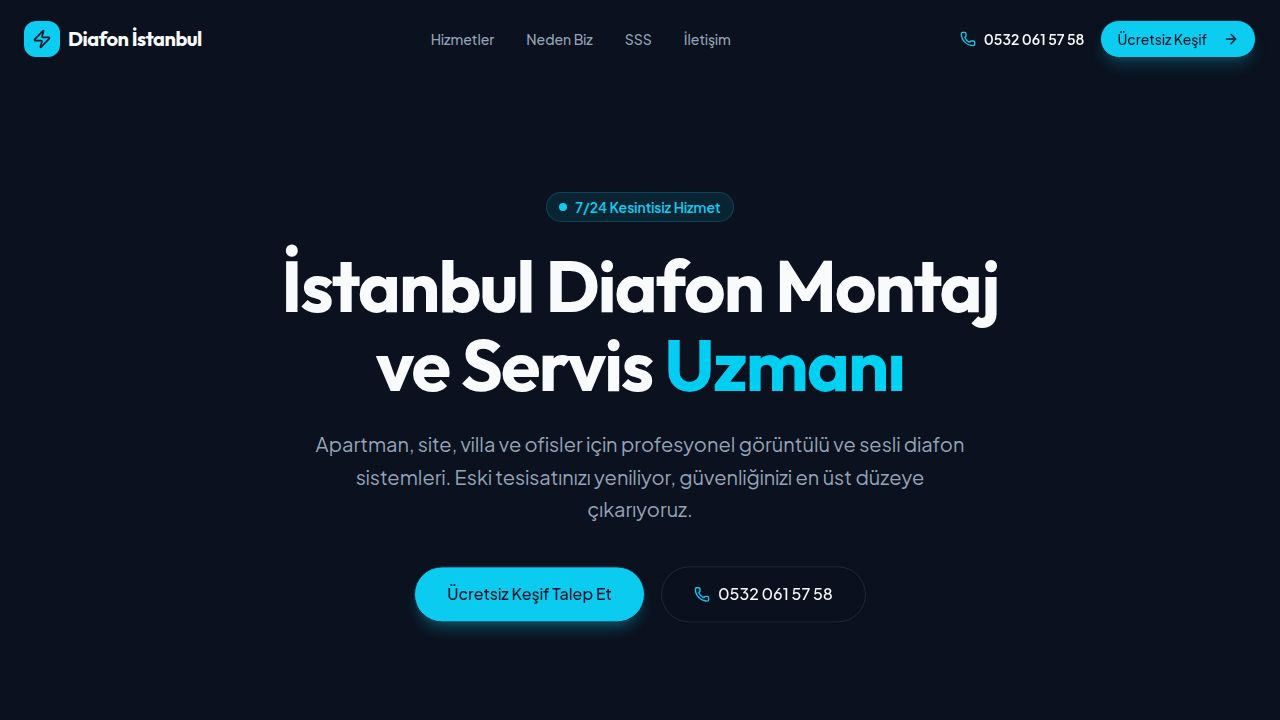
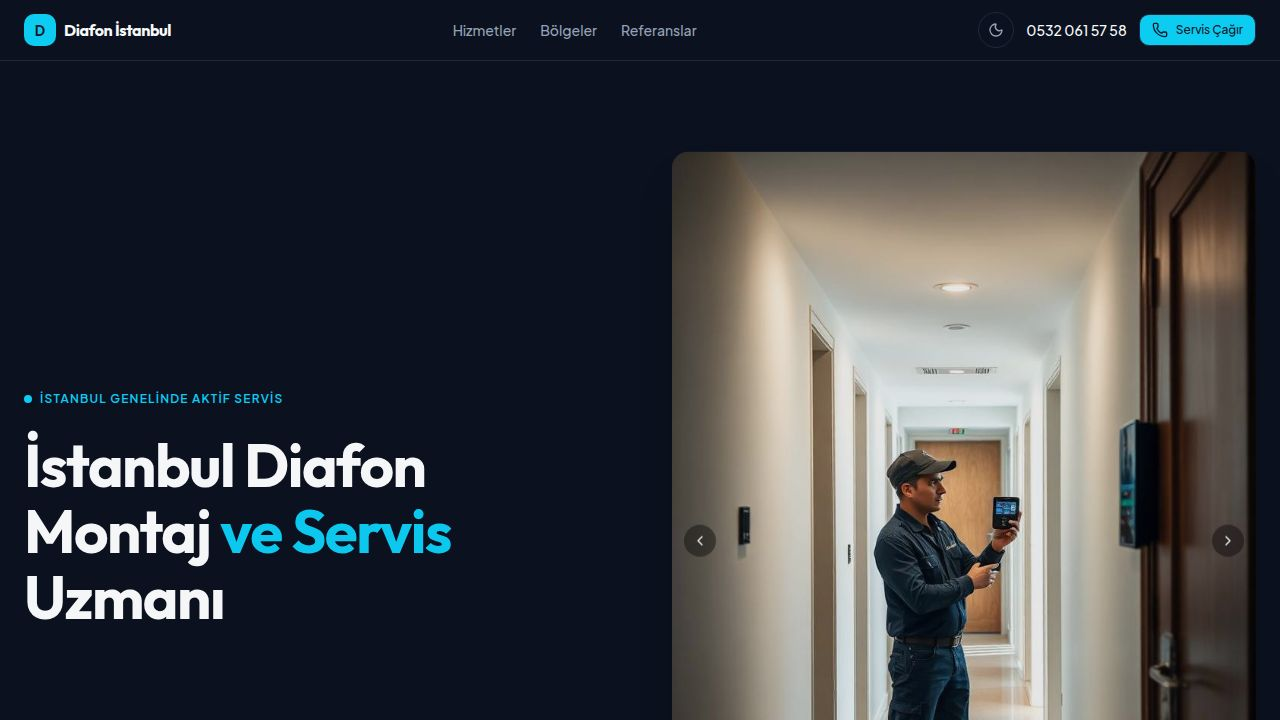
Add image gallery and improve theme switching functionality
Migrate theme management to a dedicated context, replace hero image with a multi-image gallery carousel, and ensure proper theme persistence.

Replit-Commit-Author: Agent
Replit-Commit-Session-Id: 94894068-a09a-41aa-bad5-e27586a75b20
Replit-Commit-Checkpoint-Type: full_checkpoint
Replit-Commit-Event-Id: 4daaf947-07e6-4916-b395-e986740b7a04
Replit-Commit-Screenshot-Url: https://storage.googleapis.com/screenshot-production-us-central1/062960d5-04ed-4636-ac0a-0fe26e2a8ada/94894068-a09a-41aa-bad5-e27586a75b20/Kul28Yd
Replit-Helium-Checkpoint-Created: true

diff --git a/artifacts/diafon-istanbul/src/pages/Home.tsx b/artifacts/diafon-istanbul/src/pages/Home.tsx
@@ -1,5 +1,5 @@
 import { useState, useEffect, useRef } from "react";
-import { motion, useInView } from "framer-motion";
+import { motion, useInView, AnimatePresence } from "framer-motion";
 import {
   Phone,
   ShieldCheck,
@@ -7,13 +7,13 @@ import {
   MapPin,
   CheckCircle2,
   ChevronRight,
+  ChevronLeft,
   Menu,
   X,
   Settings,
   Wrench,
   Video,
   Home as HomeIcon,
-  Zap,
   Sun,
   Moon,
   Users,
@@ -54,8 +54,7 @@ import { useForm } from "react-hook-form";
 import { zodResolver } from "@hookform/resolvers/zod";
 import * as z from "zod";
 import { cn } from "@/lib/utils";
-import { useTheme } from "@/App";
-import technicianImg from "@assets/image_1780422285396.png";
+import { useTheme } from "@/lib/theme-context";
 
 const formSchema = z.object({
   fullName: z
@@ -131,6 +130,136 @@ const FadeIn = ({
     >
       {children}
     </motion.div>
+  );
+};
+
+const HERO_IMAGES = [
+  {
+    src: "/technician.jpg",
+    alt: "Diafon İstanbul teknisyeni apartman koridorunda görüntülü diafon sistemi kuruyor",
+    label: "Montaj Hizmeti",
+  },
+  {
+    src: "/technician.jpg",
+    alt: "Görüntülü diafon panel kurulumu",
+    label: "Panel Kurulumu",
+  },
+  {
+    src: "/technician.jpg",
+    alt: "Kablo tesisat çalışması",
+    label: "Tesisat",
+  },
+];
+
+const HeroGallery = () => {
+  const [active, setActive] = useState(0);
+  const count = HERO_IMAGES.length;
+
+  const prev = () => setActive((p) => (p - 1 + count) % count);
+  const next = () => setActive((p) => (p + 1) % count);
+
+  return (
+    <FadeIn delay={0.2} className="hidden md:block">
+      <div className="relative rounded-2xl overflow-hidden shadow-2xl bg-muted" style={{ aspectRatio: "3/4" }}>
+        {/* Main image */}
+        <AnimatePresence mode="wait">
+          <motion.img
+            key={active}
+            src={HERO_IMAGES[active].src}
+            alt={HERO_IMAGES[active].alt}
+            className="absolute inset-0 w-full h-full object-cover object-center"
+            initial={{ opacity: 0, scale: 1.03 }}
+            animate={{ opacity: 1, scale: 1 }}
+            exit={{ opacity: 0, scale: 0.97 }}
+            transition={{ duration: 0.45, ease: "easeInOut" }}
+            width={600}
+            height={800}
+            loading="eager"
+          />
+        </AnimatePresence>
+
+        {/* Dark gradient bottom */}
+        <div className="absolute inset-x-0 bottom-0 h-36 bg-gradient-to-t from-black/70 to-transparent pointer-events-none" />
+
+        {/* Trust badge */}
+        <div className="absolute bottom-4 left-4 bg-background/90 backdrop-blur-sm rounded-xl px-4 py-3 shadow-lg border border-border flex items-center gap-3">
+          <div className="w-8 h-8 bg-primary/10 rounded-lg flex items-center justify-center text-primary">
+            <ShieldCheck className="w-4 h-4" />
+          </div>
+          <div>
+            <p className="text-xs text-muted-foreground">Garantili İşçilik</p>
+            <p className="text-sm font-semibold text-foreground">7/24 Servis</p>
+          </div>
+        </div>
+
+        {/* Prev / Next */}
+        {count > 1 && (
+          <>
+            <button
+              onClick={prev}
+              aria-label="Önceki fotoğraf"
+              data-testid="gallery-prev"
+              className="absolute left-3 top-1/2 -translate-y-1/2 w-8 h-8 rounded-full bg-black/40 hover:bg-black/60 backdrop-blur-sm text-white flex items-center justify-center transition-colors"
+            >
+              <ChevronLeft className="w-4 h-4" />
+            </button>
+            <button
+              onClick={next}
+              aria-label="Sonraki fotoğraf"
+              data-testid="gallery-next"
+              className="absolute right-3 top-1/2 -translate-y-1/2 w-8 h-8 rounded-full bg-black/40 hover:bg-black/60 backdrop-blur-sm text-white flex items-center justify-center transition-colors"
+            >
+              <ChevronRight className="w-4 h-4" />
+            </button>
+          </>
+        )}
+
+        {/* Dot indicators */}
+        <div className="absolute bottom-4 right-4 flex gap-1.5">
+          {HERO_IMAGES.map((_, i) => (
+            <button
+              key={i}
+              onClick={() => setActive(i)}
+              aria-label={`Fotoğraf ${i + 1}`}
+              data-testid={`gallery-dot-${i}`}
+              className={cn(
+                "rounded-full transition-all duration-300",
+                i === active ? "w-5 h-2 bg-primary" : "w-2 h-2 bg-white/50 hover:bg-white/80"
+              )}
+            />
+          ))}
+        </div>
+      </div>
+
+      {/* Thumbnail strip */}
+      <div className="flex gap-2 mt-3">
+        {HERO_IMAGES.map((img, i) => (
+          <button
+            key={i}
+            onClick={() => setActive(i)}
+            data-testid={`gallery-thumb-${i}`}
+            className={cn(
+              "relative flex-1 rounded-xl overflow-hidden transition-all duration-300",
+              i === active ? "ring-2 ring-primary ring-offset-2 ring-offset-background" : "opacity-60 hover:opacity-90"
+            )}
+            style={{ aspectRatio: "1" }}
+          >
+            <img
+              src={img.src}
+              alt={img.alt}
+              className="w-full h-full object-cover"
+              loading="lazy"
+            />
+            <div className={cn(
+              "absolute inset-x-0 bottom-0 py-1 text-center text-[10px] font-semibold text-white bg-black/50",
+              i === active ? "opacity-100" : "opacity-0"
+            )}>
+              {img.label}
+            </div>
+          </button>
+        ))}
+      </div>
+    </FadeIn>
   );
 };
 
@@ -447,32 +576,8 @@ export default function Home() {
                 </FadeIn>
               </div>
 
-              {/* Right: Image */}
-              <FadeIn delay={0.2} className="hidden md:block">
-                <div className="relative rounded-2xl overflow-hidden shadow-2xl aspect-[4/3]">
-                  <img
-                    src={technicianImg}
-                    alt="Diafon İstanbul teknisyeni apartman girişine görüntülü diafon sistemi kuruyor"
-                    className="w-full h-full object-cover object-center"
-                    width={800}
-                    height={600}
-                  />
-                  {/* Trust badge overlay */}
-                  <div className="absolute bottom-4 left-4 bg-background/90 backdrop-blur-sm rounded-xl px-4 py-3 shadow-lg border border-border flex items-center gap-3">
-                    <div className="w-8 h-8 bg-primary/10 rounded-lg flex items-center justify-center text-primary">
-                      <ShieldCheck className="w-4 h-4" />
-                    </div>
-                    <div>
-                      <p className="text-xs text-muted-foreground">
-                        Garantili İşçilik
-                      </p>
-                      <p className="text-sm font-semibold text-foreground">
-                        7/24 Servis
-                      </p>
-                    </div>
-                  </div>
-                </div>
-              </FadeIn>
+              {/* Right: Image Gallery */}
+              <HeroGallery />
             </div>
 
             {/* Trust strip */}

diff --git a/artifacts/diafon-istanbul/src/App.tsx b/artifacts/diafon-istanbul/src/App.tsx
@@ -4,51 +4,9 @@ import { Toaster } from "@/components/ui/sonner";
 import { TooltipProvider } from "@/components/ui/tooltip";
 import NotFound from "@/pages/not-found";
 import Home from "@/pages/Home";
-import { useState, useEffect, createContext, useContext } from "react";
+import { ThemeProvider } from "@/lib/theme-context";
 
 const queryClient = new QueryClient();
-
-interface ThemeContextType {
-  isDark: boolean;
-  toggleTheme: () => void;
-}
-
-export const ThemeContext = createContext<ThemeContextType>({
-  isDark: false,
-  toggleTheme: () => {},
-});
-
-export function useTheme() {
-  return useContext(ThemeContext);
-}
-
-function ThemeProvider({ children }: { children: React.ReactNode }) {
-  const [isDark, setIsDark] = useState(() => {
-    if (typeof window !== "undefined") {
-      return localStorage.getItem("theme") === "dark";
-    }
-    return false;
-  });
-
-  useEffect(() => {
-    const root = document.documentElement;
-    if (isDark) {
-      root.classList.add("dark");
-      localStorage.setItem("theme", "dark");
-    } else {
-      root.classList.remove("dark");
-      localStorage.setItem("theme", "light");
-    }
-  }, [isDark]);
-
-  const toggleTheme = () => setIsDark((prev) => !prev);
-
-  return (
-    <ThemeContext.Provider value={{ isDark, toggleTheme }}>
-      {children}
-    </ThemeContext.Provider>
-  );
-}
 
 function Router() {
   return (

diff --git a/artifacts/diafon-istanbul/src/lib/theme-context.tsx b/artifacts/diafon-istanbul/src/lib/theme-context.tsx
@@ -1,0 +1,42 @@
+import { useState, useEffect, createContext, useContext } from "react";
+
+interface ThemeContextType {
+  isDark: boolean;
+  toggleTheme: () => void;
+}
+
+export const ThemeContext = createContext<ThemeContextType>({
+  isDark: false,
+  toggleTheme: () => {},
+});
+
+export function useTheme() {
+  return useContext(ThemeContext);
+}
+
+export function ThemeProvider({ children }: { children: React.ReactNode }) {
+  const [isDark, setIsDark] = useState(false);
+
+  useEffect(() => {
+    const saved = localStorage.getItem("theme");
+    const prefersDark = window.matchMedia("(prefers-color-scheme: dark)").matches;
+    const startDark = saved === "dark" || (!saved && prefersDark);
+    setIsDark(startDark);
+    document.documentElement.classList.toggle("dark", startDark);
+  }, []);
+
+  const toggleTheme = () => {
+    setIsDark((prev) => {
+      const next = !prev;
+      document.documentElement.classList.toggle("dark", next);
+      localStorage.setItem("theme", next ? "dark" : "light");
+      return next;
+    });
+  };
+
+  return (
+    <ThemeContext.Provider value={{ isDark, toggleTheme }}>
+      {children}
+    </ThemeContext.Provider>
+  );
+}